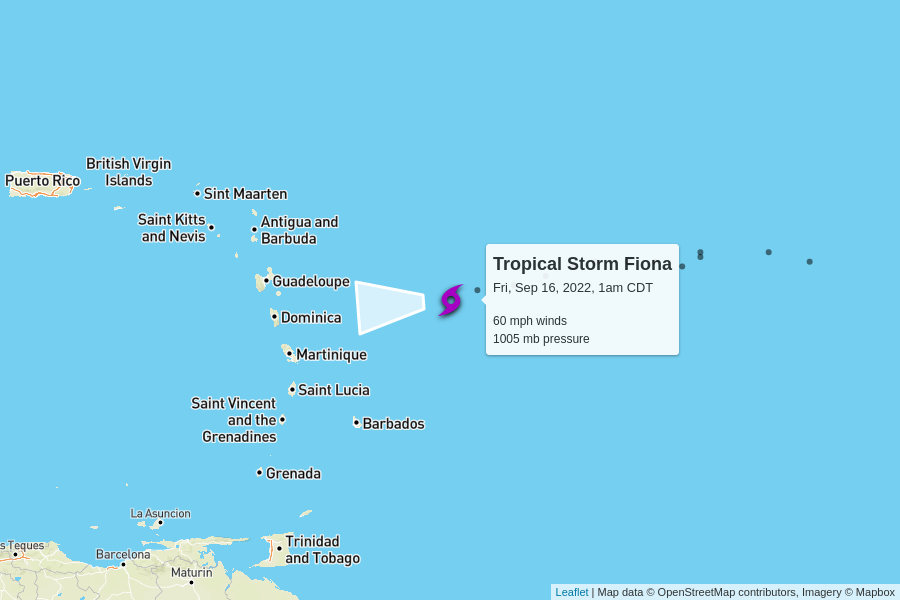
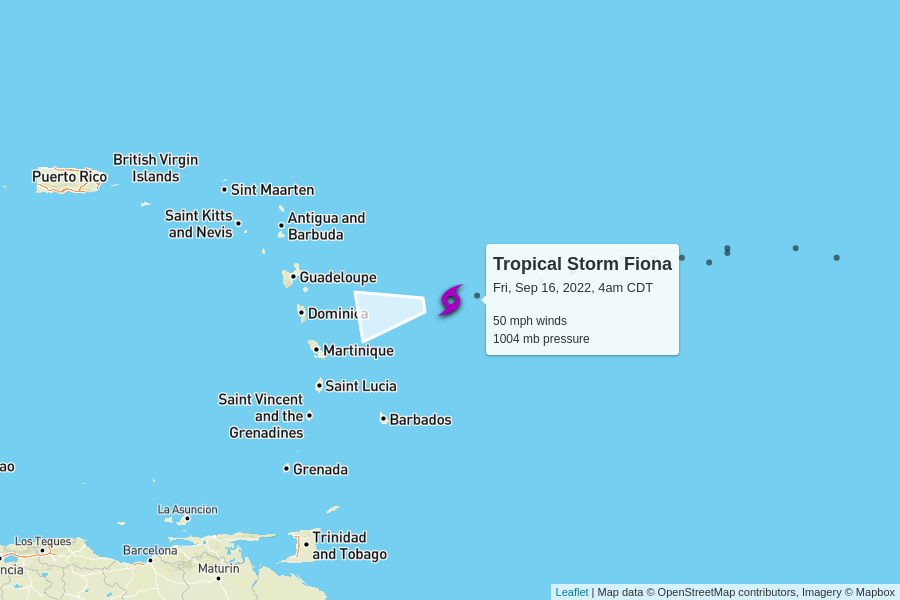
automatic update

diff --git a/docs/index.html b/docs/index.html
@@ -100,7 +100,7 @@
         <td colspan="6" class="storm category-0" >
           <h2>
             Tropical Storm Fiona
-            <p class="updated">last updated <span data-time>2022-09-16T06:00:00.000Z</span></p>
+            <p class="updated">last updated <span data-time>2022-09-16T09:00:00.000Z</span></p>
           </h2>
         </td>
       </tr>
@@ -115,12 +115,12 @@
       </tr>
       <tr>
         <td class="spacer"></td>
-        <td>60 mph</td>
-        <td>1005 mb</td>
+        <td>50 mph</td>
+        <td>1004 mb</td>
         <td>
           15 mph to the west
           <br/>
-          <span style="display: inline-block; font-size: 1.5em; transform: rotate(265deg);">↑</span>
+          <span style="display: inline-block; font-size: 1.5em; transform: rotate(260deg);">↑</span>
         </td>
         <td><a href="https://raw.githubusercontent.com/mgwalker/atlantic-hurricanes/main/data/csv/AL072022.csv">AL072022.csv</a></td>
         <td><a href="https://www.nhc.noaa.gov/archive/2022/FIONA.shtml?">NHC advisories</a></td>
